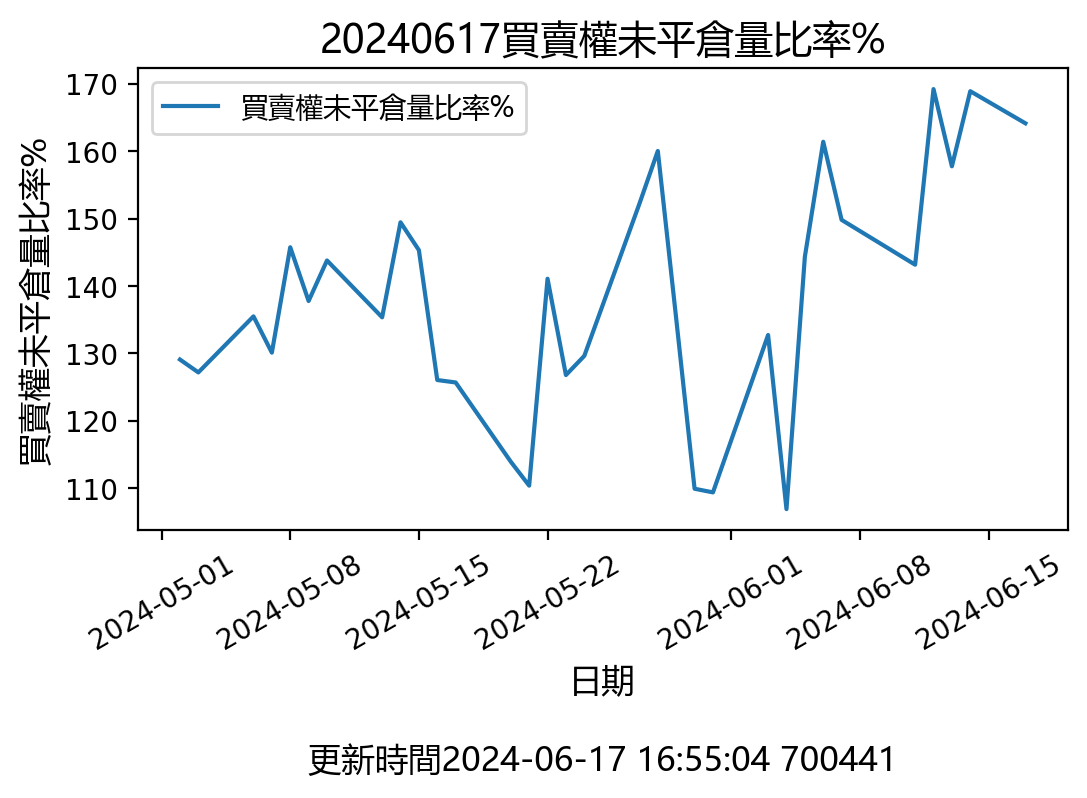
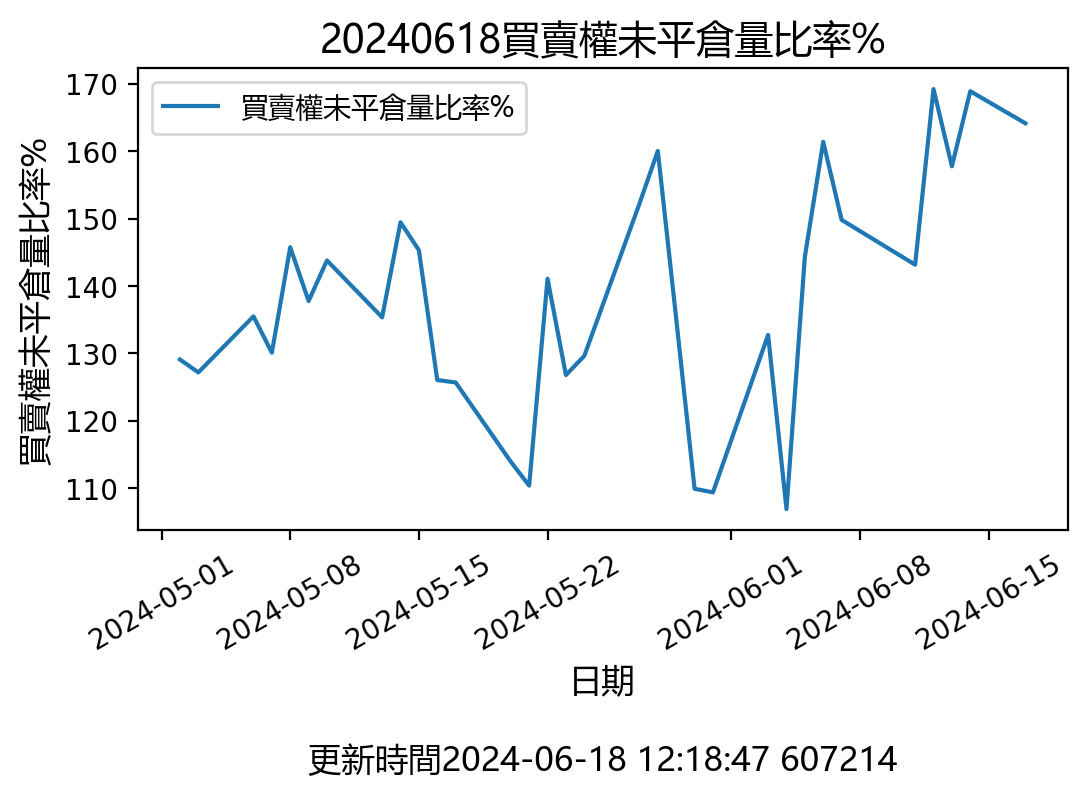
更新時間: Tue Jun 18 12:18:49 CST 2024

diff --git a/README.md b/README.md
@@ -2,5 +2,5 @@
 ## 台指期K線圖與「預估換倉成本」
 ![](txfcost.png)
 
-## 20240617 選擇權 Put/Call Ratios
+## 20240618 選擇權 Put/Call Ratios
 ![](pcratio.png)
